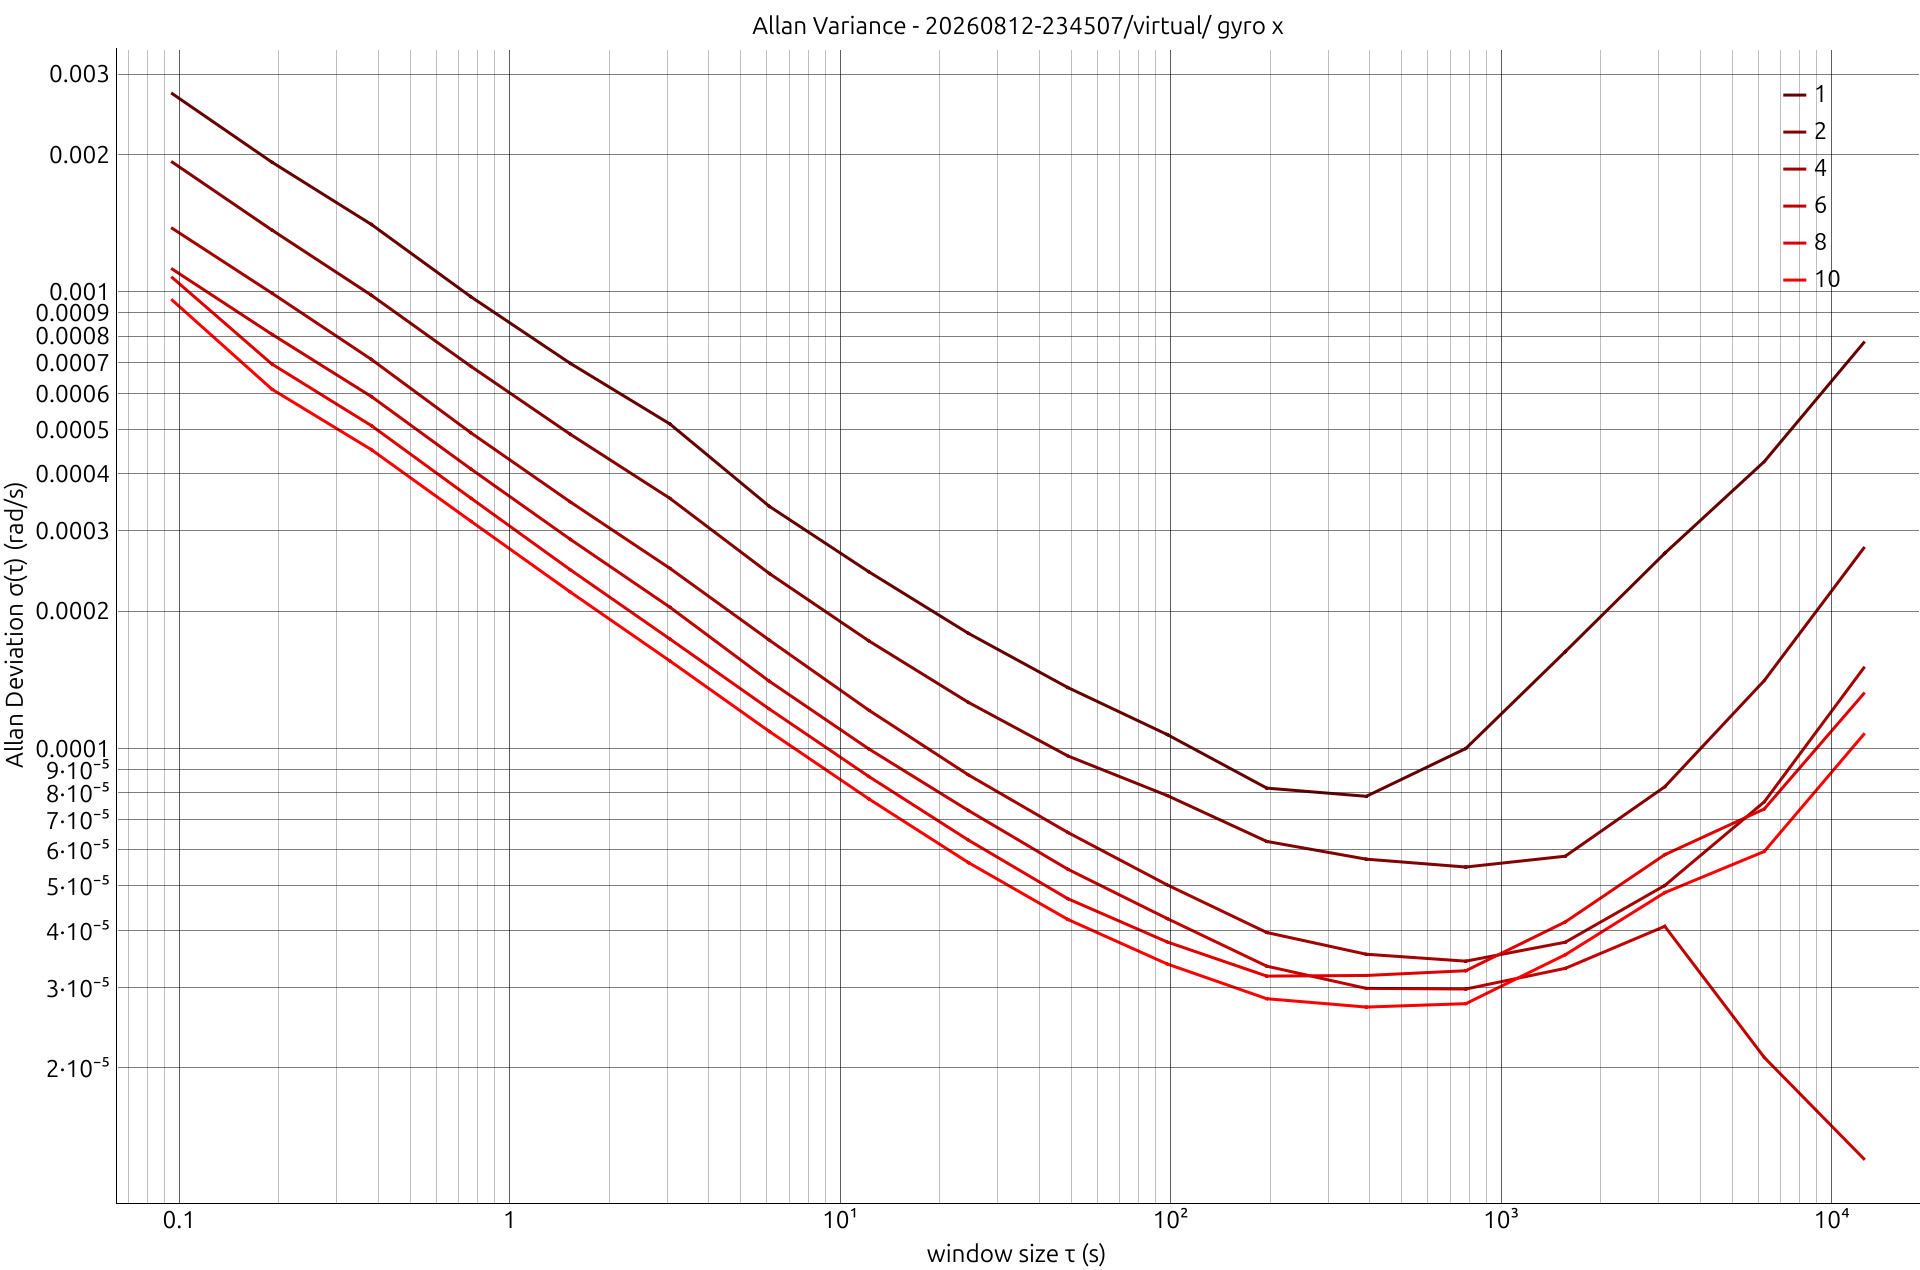
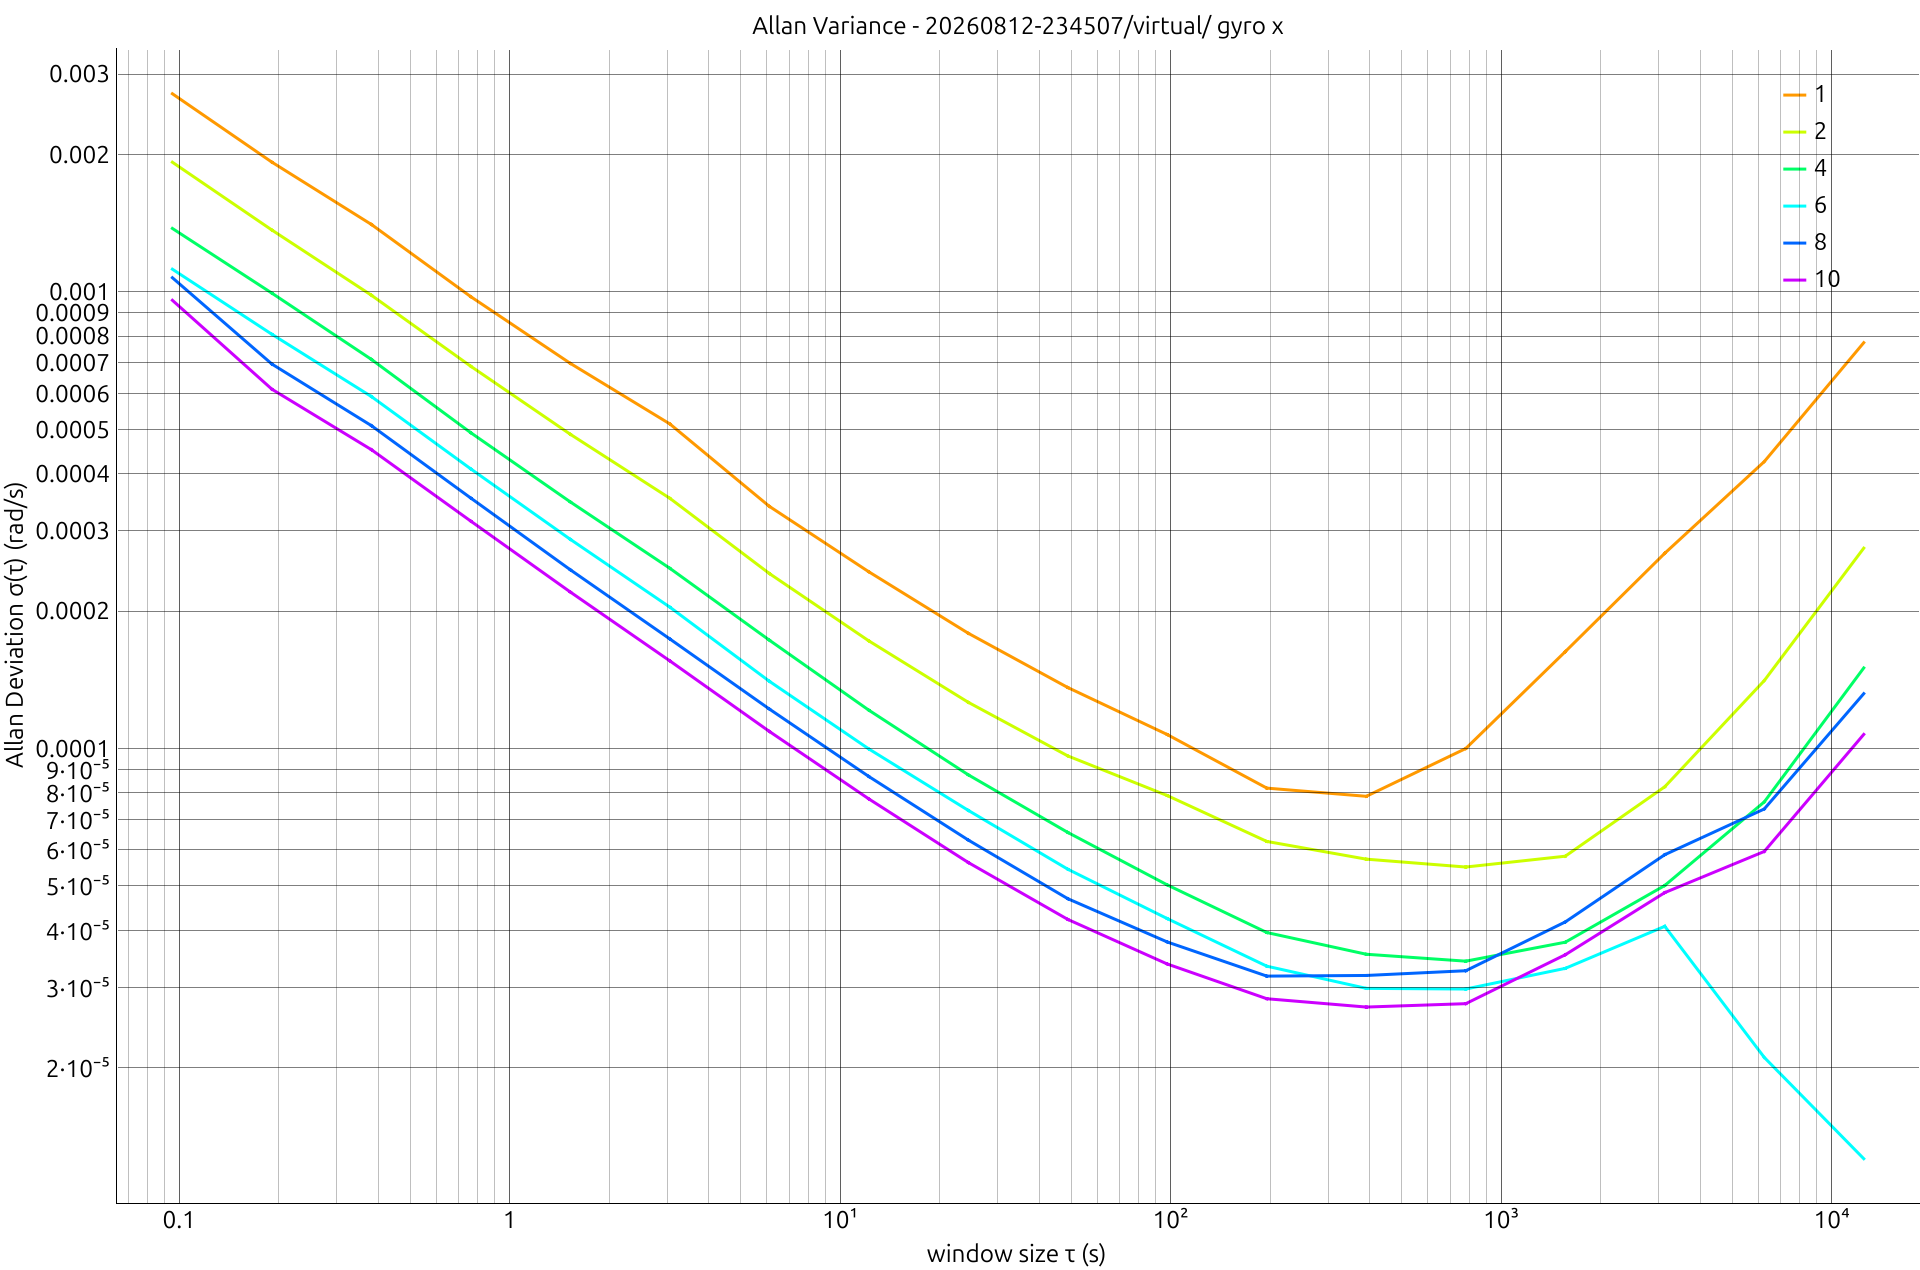
rainbow allan variance plots

diff --git a/allan_variance.py b/allan_variance.py
@@ -69,9 +69,10 @@ if __name__ == "__main__":
     save_plots=True
 
     path = "./logs/"
-    timestamp = "20260821-233049/"
+    # timestamp = "20260821-233049/"
     # timestamp = "20260814-002623/"
     # timestamp = "20260812-234507/virtual/"
+    timestamp = "20260814-002623/"
     # timestamp = "20260812-234507/"
     # timestamp = "20260810-231852/"
     # timestamp = "20260809-113733/"
@@ -83,6 +84,7 @@ if __name__ == "__main__":
     axis = ["x","y","z"]
     color = ["r","g","b"]
     color2 = [0.0,0.3,0.6]
+    color3 = [0.1,0.2,0.4,0.5,0.6,0.8]
     # which sensors to plot
     # For raw data, this specifies the index of the sensor
     # for virtual data, this specifies the number of sensors fused
@@ -119,7 +121,7 @@ if __name__ == "__main__":
     windows.append(win0g)
 
     for i in range(len(sensor_idx)):
-        brightness = 0.4 + 0.6 * (i / max(len(sensor_idx) - 1, 1))
+        brightness = 0.0 + 1.0 * (i / max(len(sensor_idx) - 1, 1))
 
         for j in range(len(sensor)):
             full = path+timestamp+sensor[j]+sensor_idx[i]+".csv"
@@ -180,7 +182,7 @@ if __name__ == "__main__":
                       f"time constant: {t:.4f}")
 
                 p.plot(tau,adev,pen=pg.mkPen(pg.hsvColor(hue=color2[a]),width=3),sat=1.0, name=f"{axis[a]}")
-                pax[a+3*j].plot(tau,adev,pen=pg.mkPen(pg.hsvColor(hue=color2[a], sat=1.0, val=brightness),width=3), name=f"{sensor_idx[i]}")
+                pax[a+3*j].plot(tau,adev,pen=pg.mkPen(pg.hsvColor(hue=color3[i], sat=1.0),width=3), name=f"{sensor_idx[i]}")
                 # combined_plots[j].plot(tau,adev,pen=f"{color[a]}", name=f"{axis[a]}")
                 combined_plots[j].plot(tau,adev,pen=f"{color[a]}", name=f"{sensor_idx[i]}")
                 # err_item = pg.ErrorBarItem(
